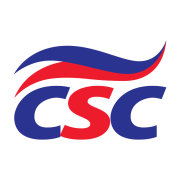
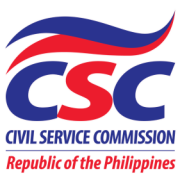
Restore the full CSC lockup and re-render it from the master
Reverts the cropped mark from 1e9aa27. The full lockup — swoosh, "CSC",
and both lines of agency text — is the icon again.

Rather than changing the artwork to solve legibility, this improves its
fidelity. Every rendition is now generated from the 4499px master, so
nothing is ever enlarged: previously favicon.png was a flat 32px bitmap
and the 16px slot in the .ico was resampled down from it, which softened
the strokes twice over.

Downscaling runs in halving steps rather than one leap. GD's resampler
reads only a small neighbourhood per output pixel, so a single 4499 -> 16
resample misses most of the image and drops the thin strokes of the
lockup entirely; halving repeatedly averages the whole picture down and
keeps them.

favicon.ico now carries 16, 32 and 48 (it had 16 and 32), and a 192px
PNG is offered for high-DPI tab strips and installed shortcuts, which had
nothing above 32 to work from before.

The home-screen icon keeps the opaque white ground introduced with the
crop, which was an independent fix: iOS composites a transparent
apple-touch-icon onto black, and the lockup is dark blue.

Worth stating plainly: at 16 and 32px the two lines of agency text sit
below the resolution floor and still read as a colour block. That is a
limit of the size, not of the rendering, and no amount of sharpening
changes it — the swoosh and the CSC letters are what carry recognition
there. The gain from this change is real but concentrated in the 48px and
192px renditions.
[…]

diff --git a/resources/views/app.blade.php b/resources/views/app.blade.php
@@ -6,11 +6,12 @@
         <meta name="theme-color" content="#2a338f">
 
         {{--
-            Both are declared on purpose. Browsers request /favicon.ico blind,
-            so it has to be a real file, while the PNG is what modern browsers
-            actually prefer and what stays sharp on a high-DPI tab strip.
+            All of these are declared on purpose. Browsers request /favicon.ico
+            blind, so it has to be a real file; the PNGs are what modern
+            browsers prefer, and offering a 192 lets a high-DPI tab strip or an
+            installed shortcut pick a rendition it does not have to enlarge.
         --}}
-        <link rel="icon" href="{{ asset('favicon.ico') }}" sizes="32x32">
+        <link rel="icon" href="{{ asset('favicon.ico') }}" sizes="16x16 32x32 48x48">
         <link rel="icon" href="{{ asset('images/favicon.png') }}" type="image/png" sizes="32x32">
         <link rel="icon" href="{{ asset('images/favicon-192.png') }}" type="image/png" sizes="192x192">
         <link rel="apple-touch-icon" href="{{ asset('images/apple-touch-icon.png') }}">
